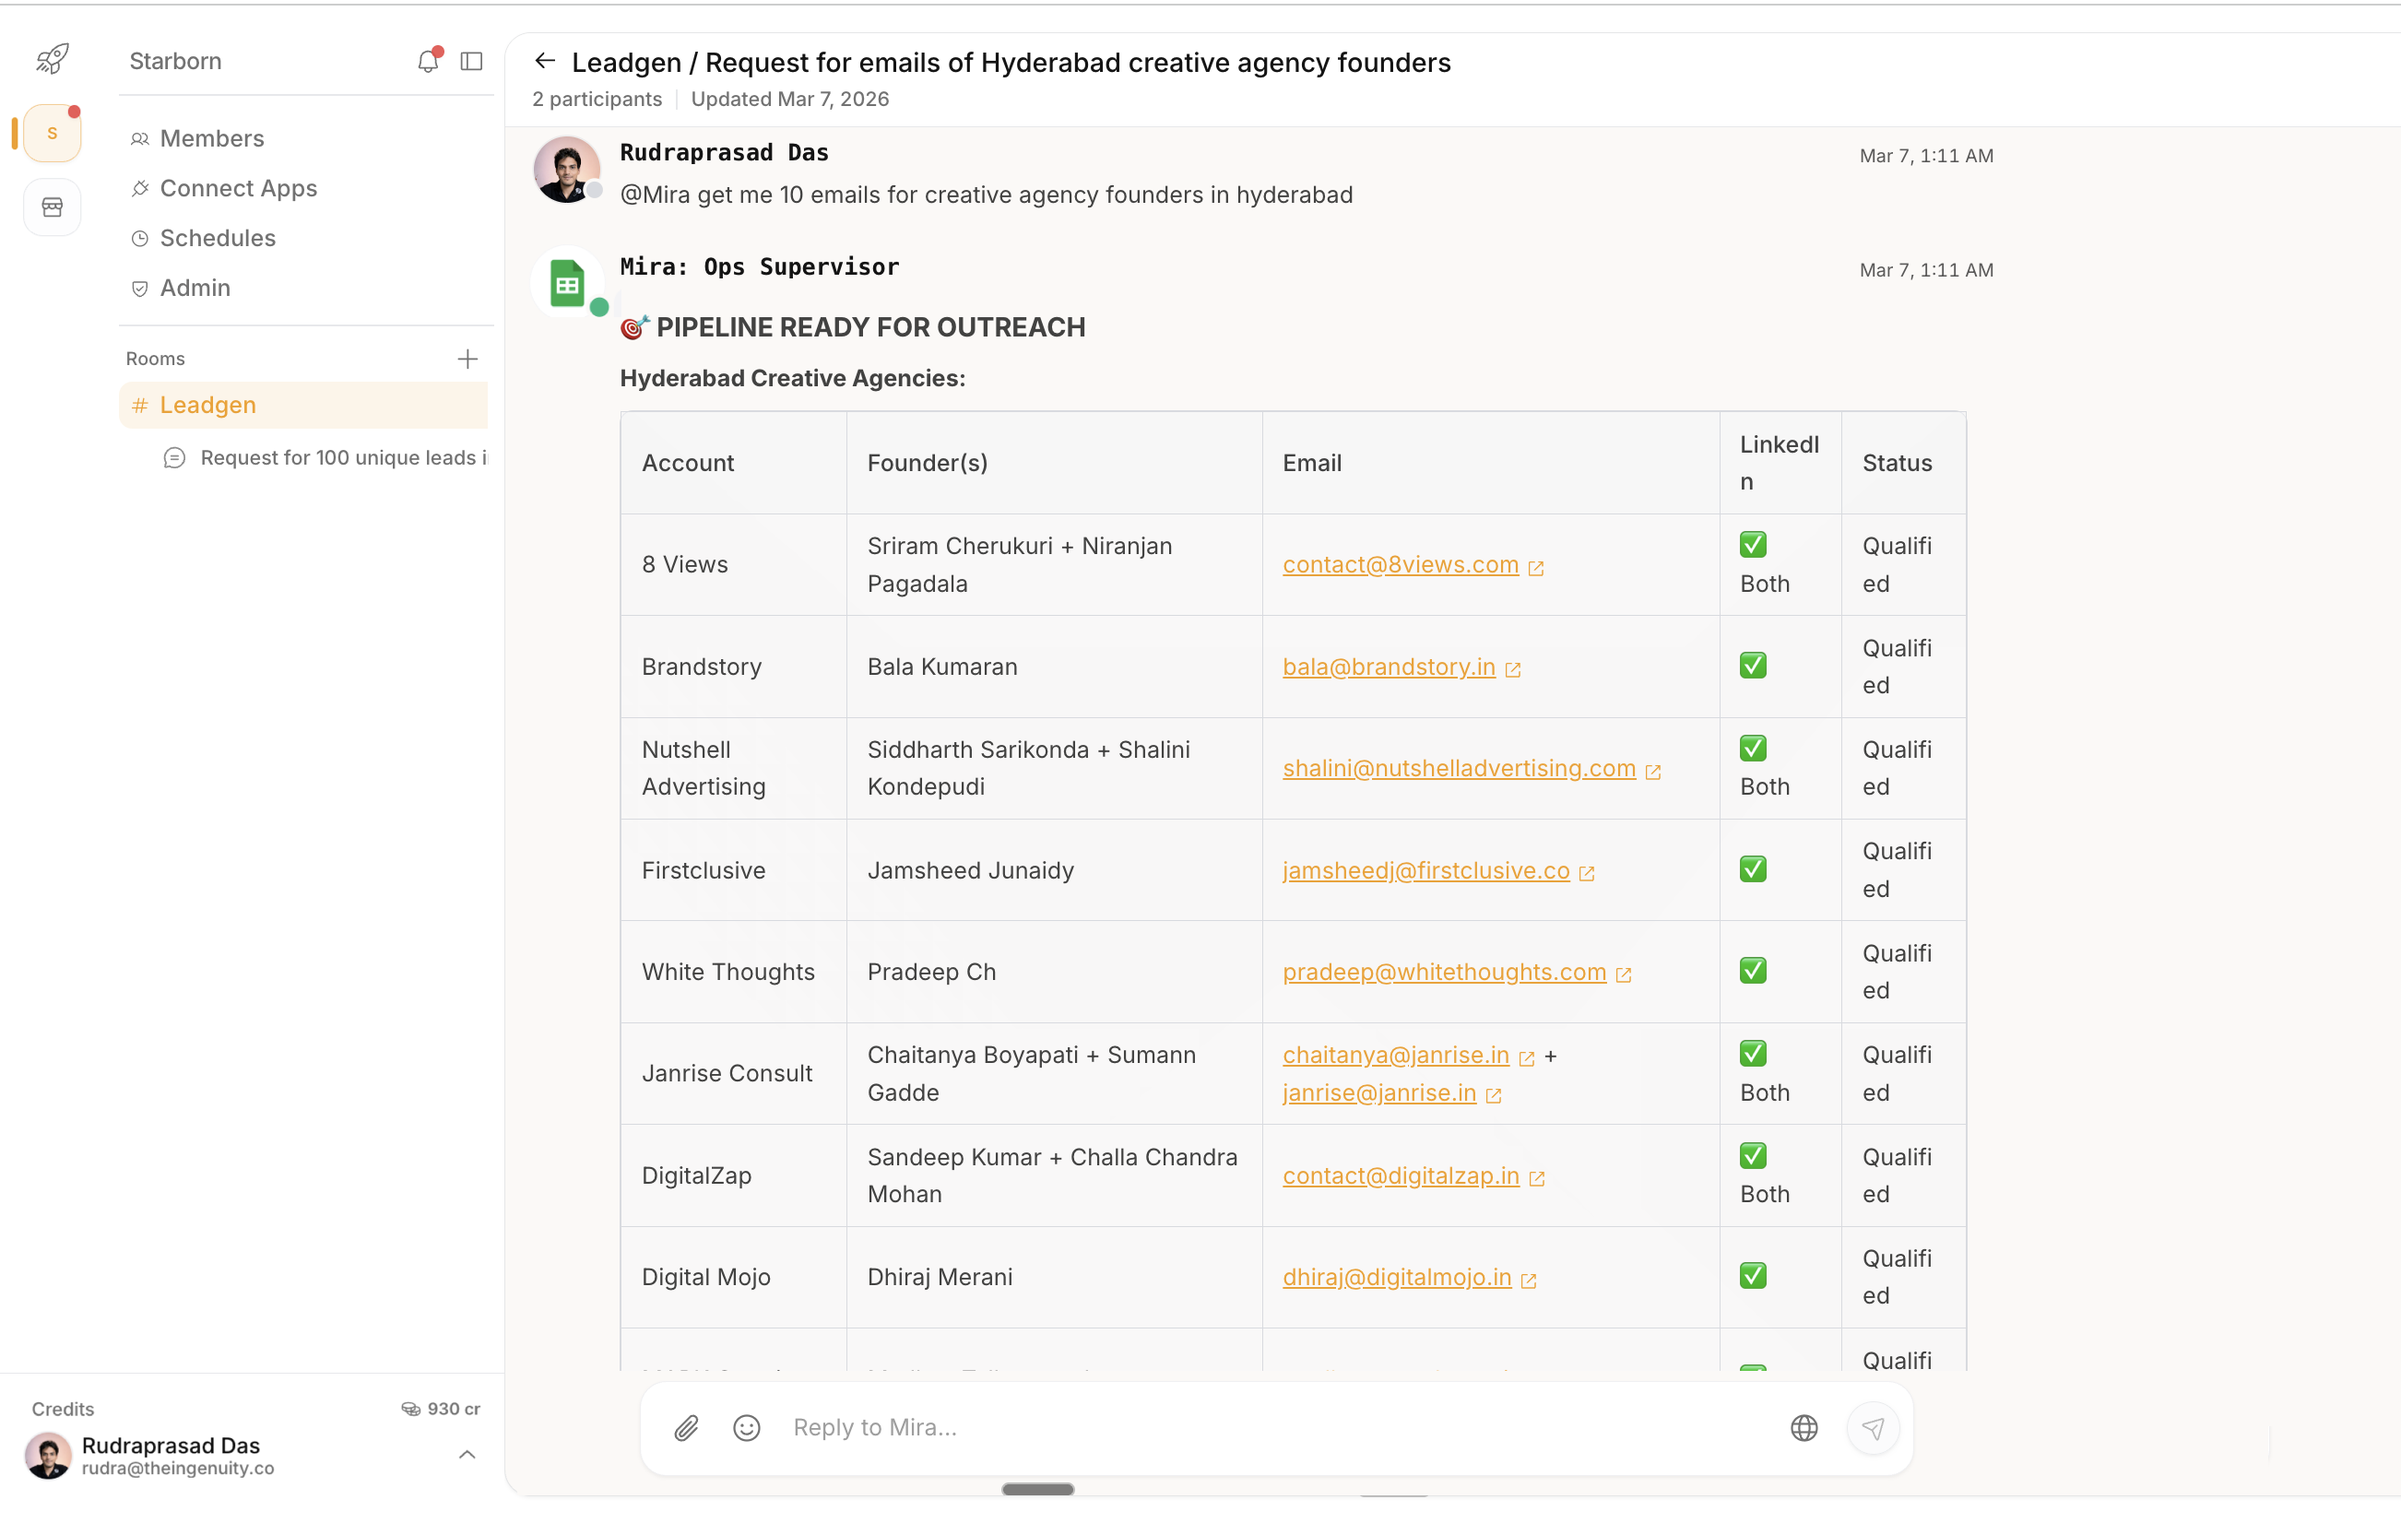
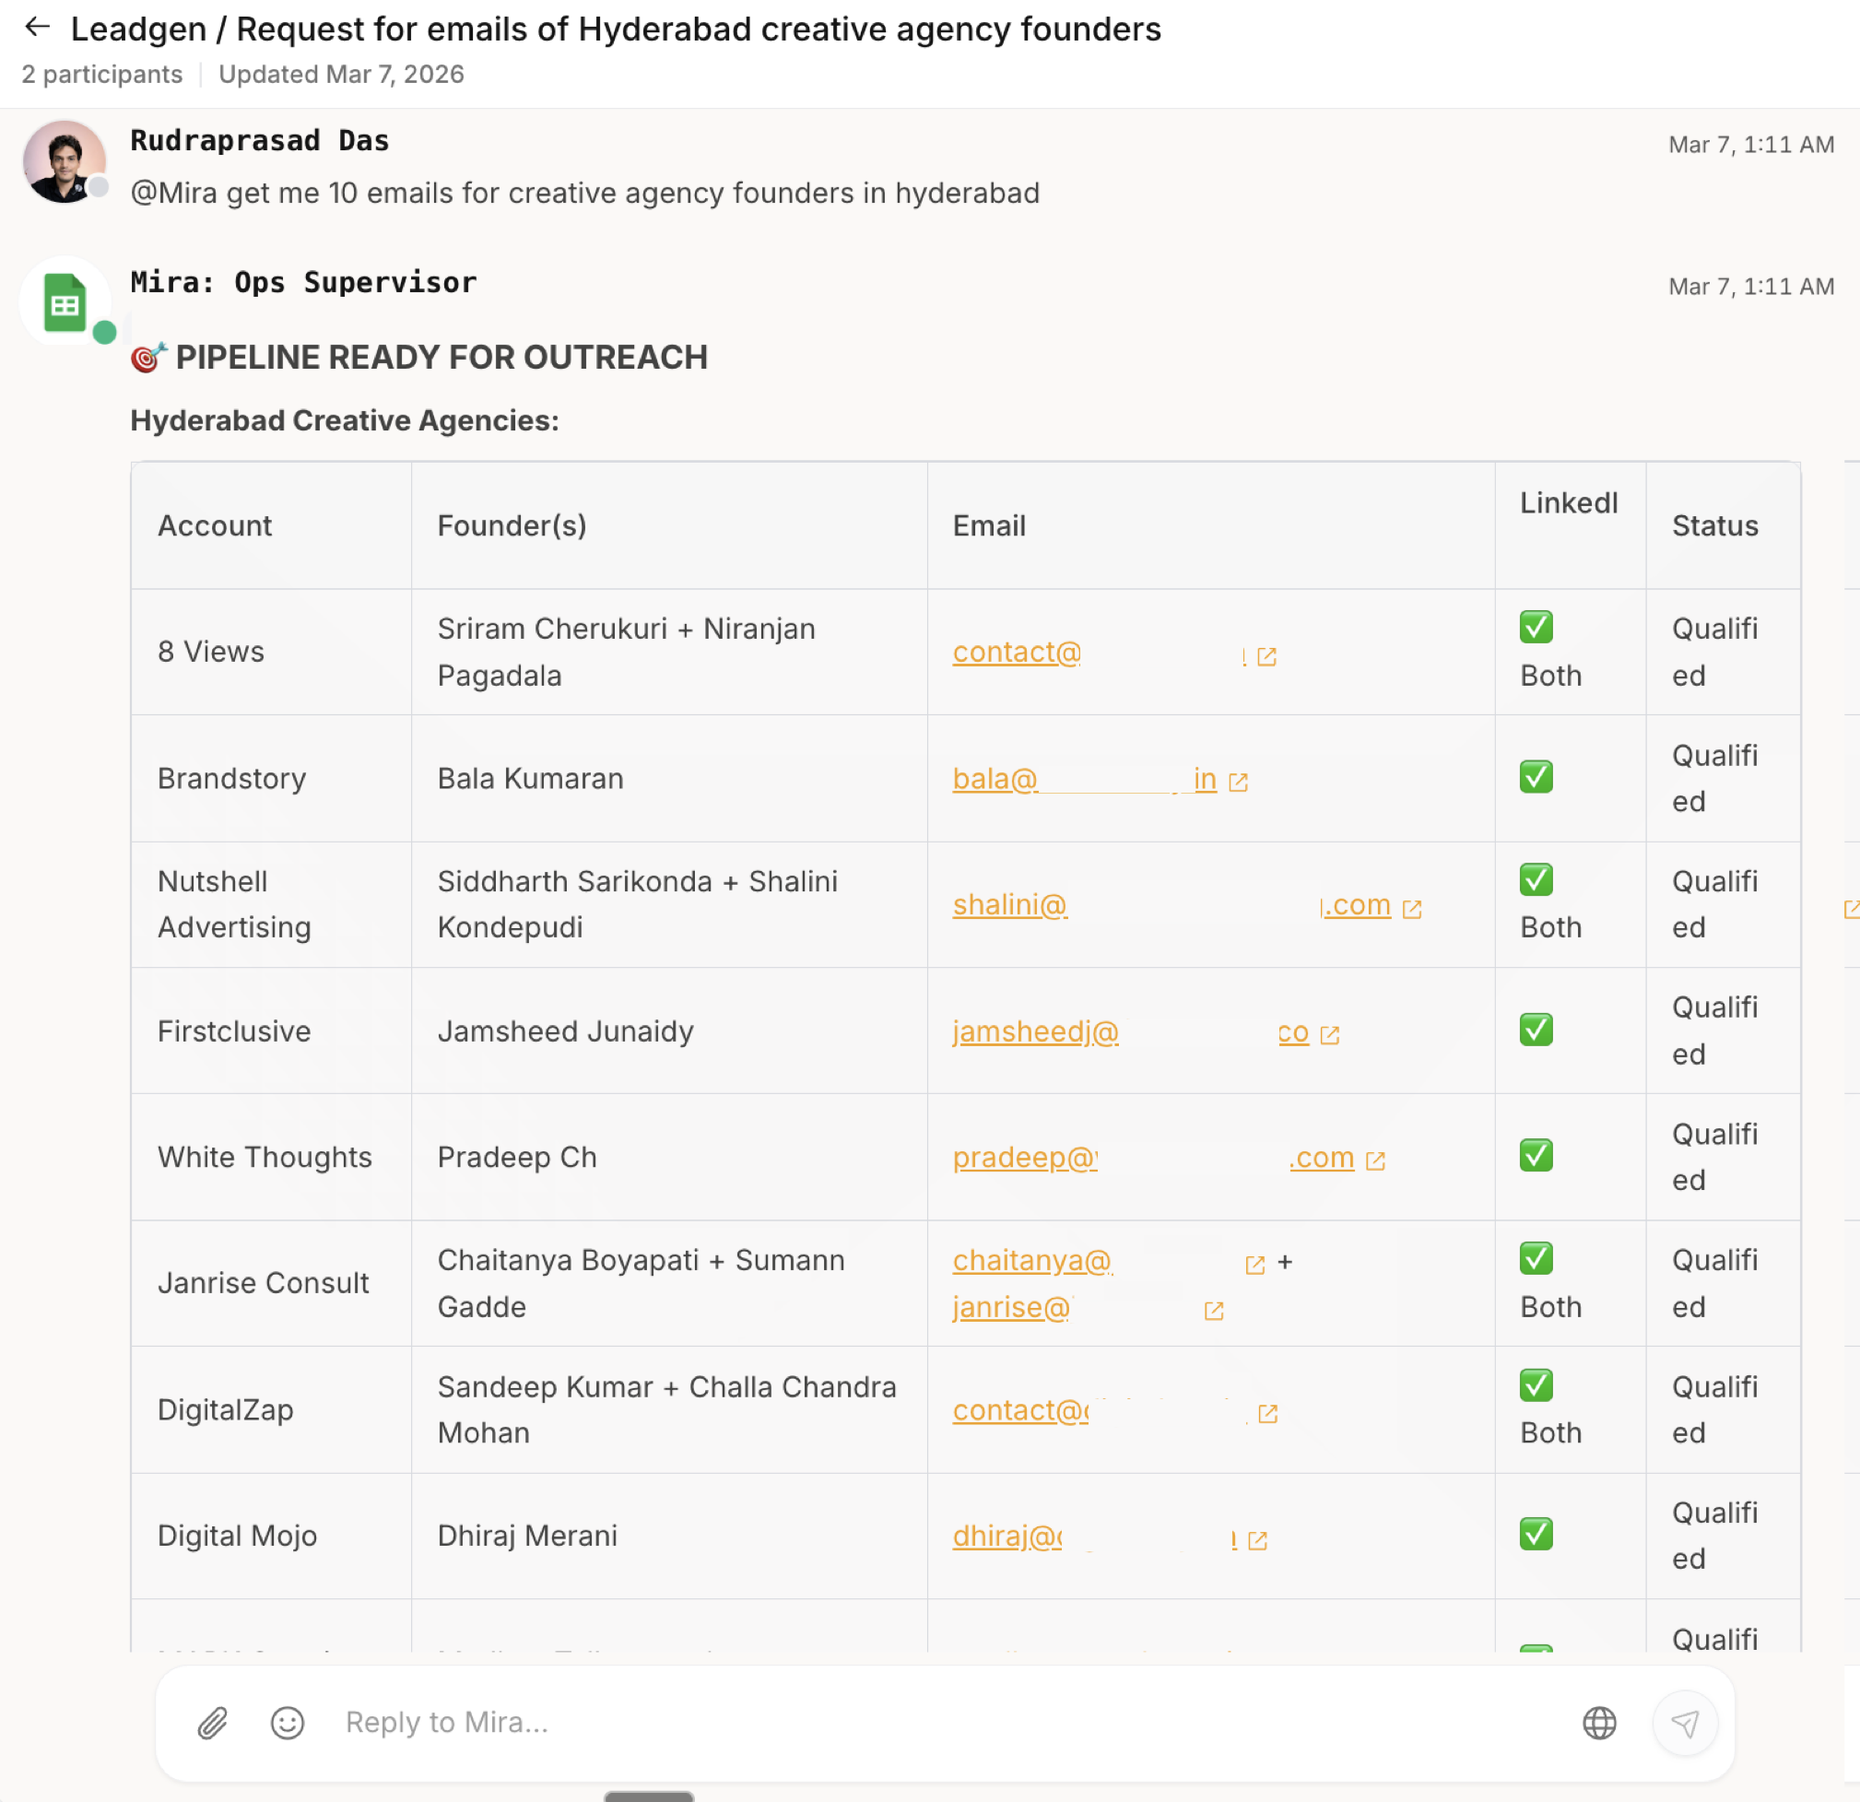
feat: polish landing and lead-gen CTA styling updates
Apply final visual refinements across landing and lead-generation pages, including black CTA text/icon treatment and updated lead-gen hero base artwork.

Made-with: Cursor

diff --git a/packages/client/src/components/navigation/PublicHeader.tsx b/packages/client/src/components/navigation/PublicHeader.tsx
@@ -172,7 +172,7 @@ export function PublicHeader(): React.JSX.Element {
             <Link
               href="/login"
               onClick={() => track({ type: 'public_header_nav_clicked', fromPath: pathname ?? '', destination: '/login', variant: 'desktop' })}
-              className="relative inline-flex items-center justify-center h-10 sm:h-11 px-5 sm:px-6 text-sm sm:text-base font-semibold leading-none rounded-full whitespace-nowrap text-white bg-gradient-to-b from-amber-300 via-amber-400 to-amber-500 shadow-[0_4px_0_0_rgba(180,83,9,1)] hover:brightness-110 active:shadow-[0_2px_0_0_rgba(180,83,9,1)] active:-translate-y-[1px] transition"
+              className="relative inline-flex items-center justify-center h-10 sm:h-11 px-5 sm:px-6 text-sm sm:text-base font-semibold leading-none rounded-full whitespace-nowrap text-slate-900 bg-gradient-to-b from-amber-300 via-amber-400 to-amber-500 shadow-[0_4px_0_0_rgba(180,83,9,1)] hover:brightness-110 active:shadow-[0_2px_0_0_rgba(180,83,9,1)] active:-translate-y-[1px] transition"
             >
               Get Started
             </Link>
@@ -268,7 +268,7 @@ export function PublicHeader(): React.JSX.Element {
                     track({ type: 'public_header_nav_clicked', fromPath: pathname ?? '', destination: '/login', variant: 'mobile' })
                     setMobileMenuOpen(false)
                   }}
-                  className="block px-3 py-2.5 rounded-full text-sm font-semibold text-center text-white bg-gradient-to-b from-amber-300 via-amber-400 to-amber-500 shadow-[0_4px_0_0_rgba(180,83,9,1)] hover:brightness-110 active:shadow-[0_2px_0_0_rgba(180,83,9,1)] active:-translate-y-[1px] transition"
+                  className="block px-3 py-2.5 rounded-full text-sm font-semibold text-center text-slate-900 bg-gradient-to-b from-amber-300 via-amber-400 to-amber-500 shadow-[0_4px_0_0_rgba(180,83,9,1)] hover:brightness-110 active:shadow-[0_2px_0_0_rgba(180,83,9,1)] active:-translate-y-[1px] transition"
                 >
                   Get Started
                 </Link>

diff --git a/packages/client/src/app/components/Hero.tsx b/packages/client/src/app/components/Hero.tsx
@@ -128,11 +128,11 @@ export default function Hero(props: { initialAgentTemplates?: AgentTemplateModel
               disabled={isPrimaryAnimating}
               aria-busy={isPrimaryAnimating}
             >
-              <span className="inline-flex w-12 h-12 items-center justify-center mr-2 text-white">
+              <span className="inline-flex w-12 h-12 items-center justify-center mr-2 text-slate-900">
                 <StarshipsLogo
                   width={48}
                   height={48}
-                  className="text-white"
+                  className="text-slate-900"
                   gradientId="hero-starships-logo-gradient"
                   idleLoop={false}
                   activeStroke="currentColor"
@@ -140,7 +140,7 @@ export default function Hero(props: { initialAgentTemplates?: AgentTemplateModel
                   onEntryAnimationComplete={runPendingPrimaryAction}
                 />
               </span>
-              <span className="text-white">Get Started for free</span>
+              <span className="text-slate-900">Get Started for free</span>
             </Button>
             <p className="text-xs sm:text-sm text-white/70">No credit card required.</p>
           </div>

diff --git a/packages/client/src/app/use-cases/components/UseCaseSections.tsx b/packages/client/src/app/use-cases/components/UseCaseSections.tsx
@@ -119,7 +119,7 @@ export function UseCaseSections(props: { useCase: UseCaseModel }) {
                 <Button
                   asChild
                   size="lg"
-                  className="relative inline-flex items-center justify-center h-11 px-6 rounded-full text-sm sm:text-base font-semibold whitespace-nowrap text-white bg-gradient-to-b from-amber-300 via-amber-400 to-amber-500 shadow-[0_4px_0_0_rgba(180,83,9,1)] hover:brightness-110 active:shadow-[0_2px_0_0_rgba(180,83,9,1)] active:-translate-y-[1px] transition gap-2"
+                  className="relative inline-flex items-center justify-center h-11 px-6 rounded-full text-sm sm:text-base font-semibold whitespace-nowrap text-slate-900 bg-gradient-to-b from-amber-300 via-amber-400 to-amber-500 shadow-[0_4px_0_0_rgba(180,83,9,1)] hover:brightness-110 active:shadow-[0_2px_0_0_rgba(180,83,9,1)] active:-translate-y-[1px] transition gap-2"
                 >
                   <Link href="/login">
                     Sign up free

diff --git a/packages/client/src/app/components/UseCases.tsx b/packages/client/src/app/components/UseCases.tsx
@@ -52,7 +52,7 @@ export default function UseCases() {
                   <div className="mt-6">
                     <Link
                       href="/login"
-                      className="inline-flex items-center justify-center h-11 px-6 text-sm sm:text-base font-semibold leading-none rounded-full whitespace-nowrap text-white bg-gradient-to-b from-amber-300 via-amber-400 to-amber-500 shadow-[0_4px_0_0_rgba(180,83,9,1)] hover:brightness-110 active:shadow-[0_2px_0_0_rgba(180,83,9,1)] active:-translate-y-[1px] transition"
+                      className="inline-flex items-center justify-center h-11 px-6 text-sm sm:text-base font-semibold leading-none rounded-full whitespace-nowrap text-slate-900 bg-gradient-to-b from-amber-300 via-amber-400 to-amber-500 shadow-[0_4px_0_0_rgba(180,83,9,1)] hover:brightness-110 active:shadow-[0_2px_0_0_rgba(180,83,9,1)] active:-translate-y-[1px] transition"
                     >
                       Get Started
                     </Link>

diff --git a/packages/client/src/app/components/InvertedShowcaseHighlights.tsx b/packages/client/src/app/components/InvertedShowcaseHighlights.tsx
@@ -44,7 +44,7 @@ export default function InvertedShowcaseHighlights() {
             <div className="mt-6">
               <Link
                 href="/login"
-                className="inline-flex items-center justify-center h-11 px-6 text-sm sm:text-base font-semibold leading-none rounded-full whitespace-nowrap text-white bg-gradient-to-b from-amber-300 via-amber-400 to-amber-500 shadow-[0_4px_0_0_rgba(180,83,9,1)] hover:brightness-110 active:shadow-[0_2px_0_0_rgba(180,83,9,1)] active:-translate-y-[1px] transition"
+                className="inline-flex items-center justify-center h-11 px-6 text-sm sm:text-base font-semibold leading-none rounded-full whitespace-nowrap text-slate-900 bg-gradient-to-b from-amber-300 via-amber-400 to-amber-500 shadow-[0_4px_0_0_rgba(180,83,9,1)] hover:brightness-110 active:shadow-[0_2px_0_0_rgba(180,83,9,1)] active:-translate-y-[1px] transition"
               >
                 Get Started
               </Link>

diff --git a/packages/client/src/app/components/ConnectorHighlights.tsx b/packages/client/src/app/components/ConnectorHighlights.tsx
@@ -155,7 +155,7 @@ export default function ConnectorHighlights() {
             <div className="mt-6">
               <Link
                 href="/login"
-                className="inline-flex items-center justify-center h-11 px-6 text-sm sm:text-base font-semibold leading-none rounded-full whitespace-nowrap text-white bg-gradient-to-b from-amber-300 via-amber-400 to-amber-500 shadow-[0_4px_0_0_rgba(180,83,9,1)] hover:brightness-110 active:shadow-[0_2px_0_0_rgba(180,83,9,1)] active:-translate-y-[1px] transition"
+                className="inline-flex items-center justify-center h-11 px-6 text-sm sm:text-base font-semibold leading-none rounded-full whitespace-nowrap text-slate-900 bg-gradient-to-b from-amber-300 via-amber-400 to-amber-500 shadow-[0_4px_0_0_rgba(180,83,9,1)] hover:brightness-110 active:shadow-[0_2px_0_0_rgba(180,83,9,1)] active:-translate-y-[1px] transition"
               >
                 Get Started
               </Link>

diff --git a/packages/client/src/app/use-cases/lead-generation/LeadGenerationHero.tsx b/packages/client/src/app/use-cases/lead-generation/LeadGenerationHero.tsx
@@ -37,7 +37,7 @@ export function LeadGenerationHero(props: { useCase: UseCaseModel }) {
         className="pointer-events-none absolute inset-x-0 bottom-0 z-0 h-[42vh] sm:h-[50vh]"
         aria-hidden
         style={{
-          backgroundImage: "url('/landing/astro-base.svg')",
+          backgroundImage: "url('/landing/planet-base.svg')",
           backgroundRepeat: 'no-repeat',
           backgroundPosition: 'center bottom',
           backgroundSize: 'cover',
